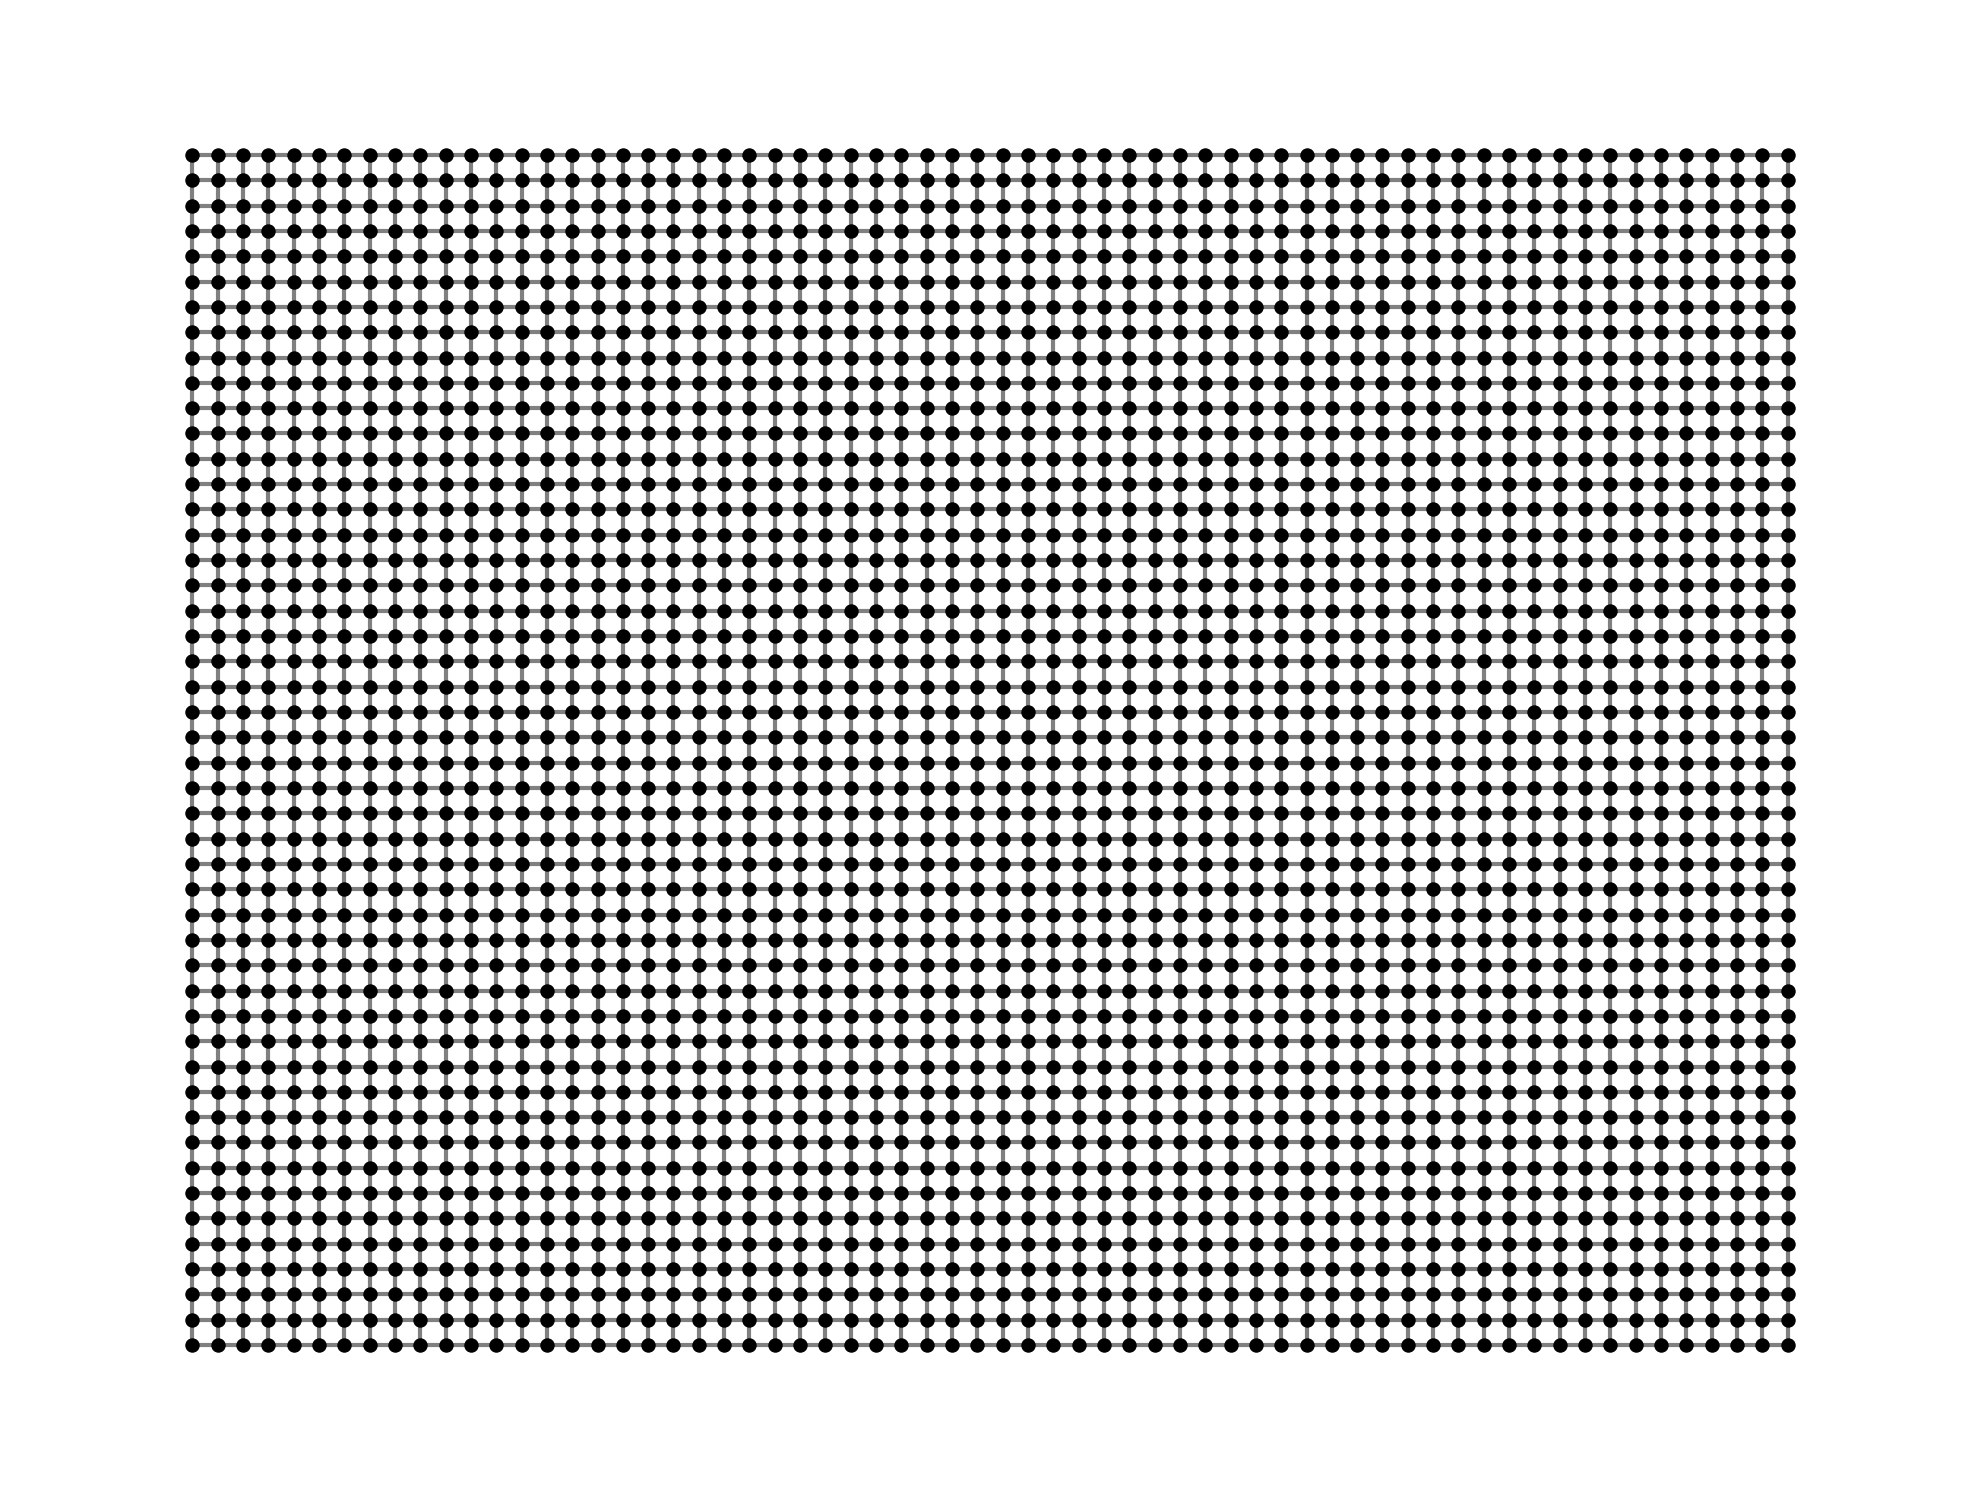
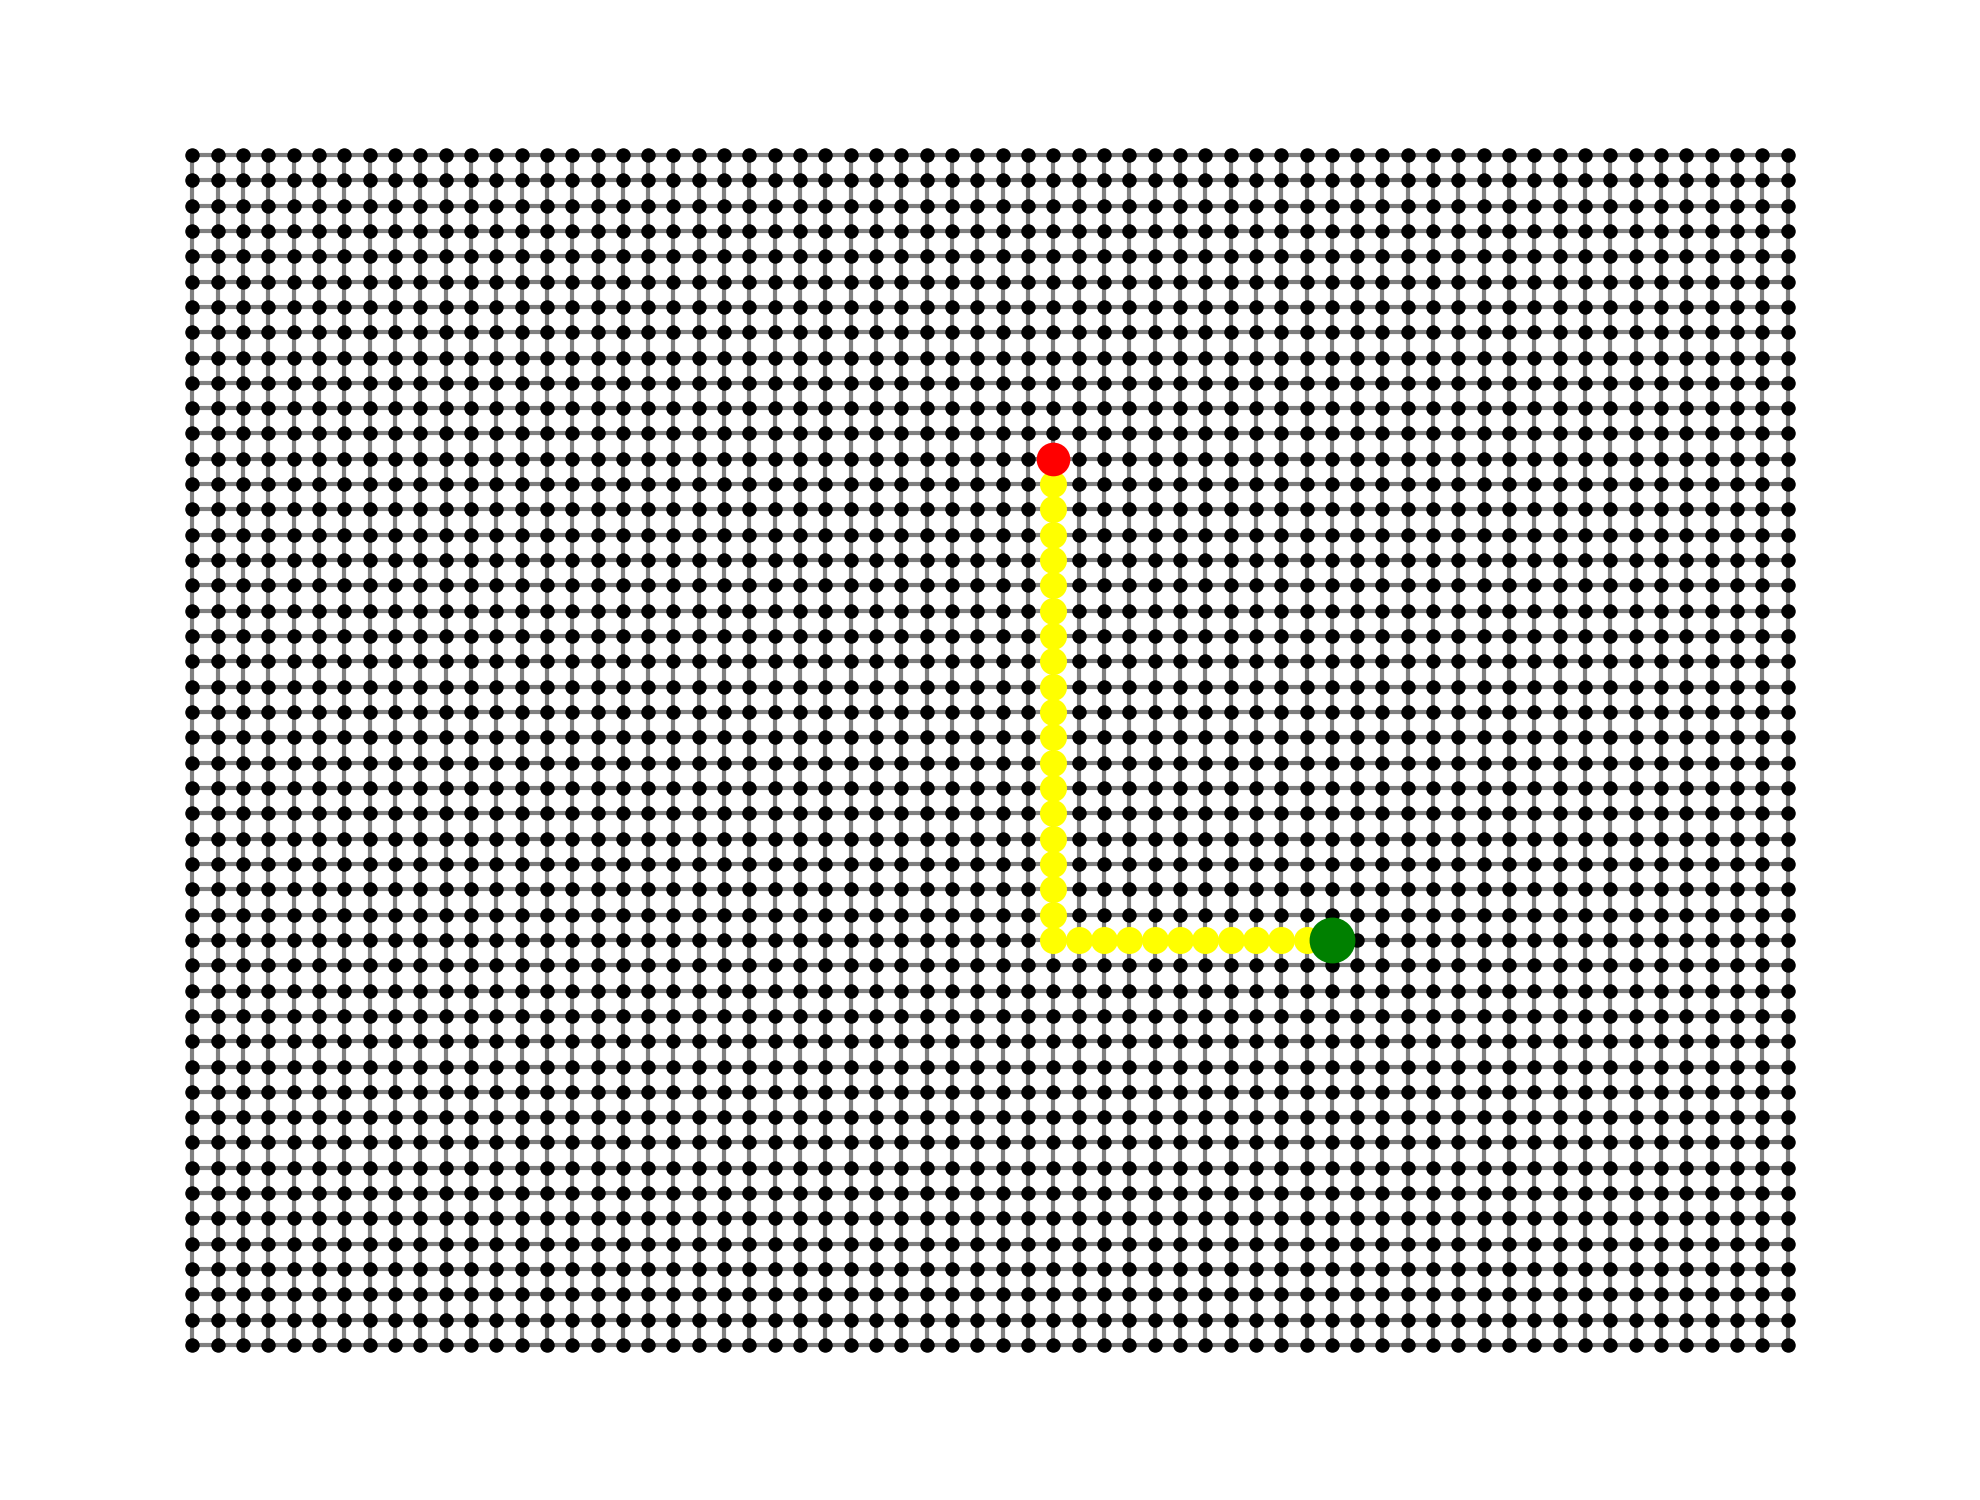
agrego astar con comentarios

Changed region(s): [[0.5237, 0.276, 0.7086, 0.644]]

diff --git a/ia.py b/ia.py
@@ -2,61 +2,106 @@ from heapq import heappush, heappop
 
 
 def manhattan(a, b):
+    """Calcula la distancia Manhattan entre dos puntos (a y b). 
+    Es la suma de las diferencias absolutas de sus coordenadas.
+    Sirve como heurística para estimar la distancia restante hasta el destino.
+    """
     return abs(a[0] - b[0]) + abs(a[1] - b[1])
 
-# f(n) = g(n) + h(n)
-# f(n): A* Score 
-# g(n): Costo para llegar a n  
-# h(n): Costo estimado para ir de n al destino
+
+# En el algoritmo A*, cada nodo tiene un costo total f(n):
+#   f(n) = g(n) + h(n)
+# donde:
+#   g(n): costo real para llegar al nodo n desde el inicio.
+#   h(n): costo estimado (heurístico) desde n hasta el destino.
+#   f(n): prioridad total usada para decidir qué nodo explorar primero.
 
 def astar(inicio, destino, grafo, board_width, board_height, obstaculos):
-    open_set = []   # cola de prioridad donde se guarda los nodos pendientes por explorar
-    # Siempre se saca el nodo con menor f_score o sea mejor candidato
+    """
+    Implementación del algoritmo A* para encontrar el camino más corto entre 'inicio' y 'destino' 
+    en un grafo o grilla. Usa la heurística de Manhattan.
 
-    heappush(open_set, (0, inicio))
-    came_from = {}  # diccionario que guarda de donde vino cada nodo para poder reconstruir el camino final
-    # lo que ya costó llegar hasta ahora (inicia guardando el costo acumulado 0)
-    g_score = {inicio: 0}
+    Parámetros:
+        inicio (tuple): coordenadas del nodo inicial.
+        destino (tuple): coordenadas del nodo final.
+        grafo (networkx.Graph): grafo que define la conectividad entre nodos.
+        board_width, board_height (int): tamaño de la grilla (solo relevante si se usa la versión de grilla).
+        obstaculos (set): conjunto de nodos bloqueados o no transitables.
 
-    while open_set:
-        _, current = heappop(open_set)  # se extrae el nodo con menor f_score
-        if current == destino:
-            path = []
-            while current in came_from:
-                path.append(current)
-                current = came_from[current]
-            path.append(inicio)
-            path.reverse()
-            return path
-        # Implementacion con Grafo
-        for vecino in grafo.neighbors(current):
+    Retorna:
+        list: lista ordenada de nodos que conforman el camino desde inicio a destino.
+              Retorna None si no se encuentra camino posible.
+    """
+
+    # Cola de prioridad (heap) que almacena nodos pendientes de explorar.
+    # Cada elemento es una tupla (f_score, nodo), y siempre se explora el nodo con menor f_score.
+    lista_abierta = []
+    heappush(lista_abierta, (0, inicio))
+
+    # Diccionario para reconstruir el camino una vez alcanzado el destino.
+    viene_de = {}
+
+    # Costo acumulado más bajo conocido hasta cada nodo.
+    # Comienza con el nodo inicial, cuyo costo de llegada (g) es 0.
+    g_costo = {inicio: 0}
+
+    while lista_abierta:
+        # Se extrae el nodo con menor f(n) de la cola de prioridad.
+        _, nodo_actual = heappop(lista_abierta)
+
+        # Si alcanzamos el destino, reconstruimos el camino recorriendo "viene_de".
+        if nodo_actual == destino:
+            ruta = []
+            while nodo_actual in viene_de:
+                ruta.append(nodo_actual)
+                nodo_actual = viene_de[nodo_actual]
+            ruta.append(inicio)
+            ruta.reverse()
+            return ruta
+
+        # --- EXPLORACIÓN DE VECINOS (versión con grafo) ---
+        # print(f"Nodo actual: {nodo_actual} Vecinos: {[n for n in grafo.neighbors(nodo_actual)]}")
+
+        for vecino in grafo.neighbors(nodo_actual):
+            # Si el vecino es un obstáculo (y no es el destino), se salta.
             if vecino in obstaculos and vecino != destino:
                 continue
 
-            tentative_g = g_score[current] + 1
-            if tentative_g < g_score.get(vecino, float('inf')):
-                came_from[vecino] = current
-                g_score[vecino] = tentative_g
-                f_score = tentative_g + manhattan(vecino, destino)
-                heappush(open_set, (f_score, vecino))
-        
-        # Implementacion con Grilla
-        # x, y = current
-        # neighbors = [(x+1, y), (x-1, y), (x, y+1), (x, y-1)]
-        
-        # for nx, ny in neighbors:
+            # Costo tentativo: costo acumulado para llegar hasta el vecino
+            # pasando por el nodo actual. Aquí se asume que moverse cuesta 1 unidad.
+            g_candidato = g_costo[nodo_actual] + 1
+
+            # Si el nuevo costo es mejor (más bajo) que el registrado previamente,
+            # actualizamos el costo y la relación "viene_de".
+            if g_candidato < g_costo.get(vecino, float('inf')):
+                viene_de[vecino] = nodo_actual
+                g_costo[vecino] = g_candidato
+
+                # f(n) = g(n) + h(n)
+                # Se calcula la prioridad combinando el costo real y la heurística.
+                f_costo = g_candidato + manhattan(vecino, destino)
+
+                # Se agrega el vecino a la lista abierta (cola de prioridad)
+                # para ser explorado más adelante.
+                heappush(lista_abierta, (f_costo, vecino))
+
+        # --- VERSIÓN ALTERNATIVA (si se trabaja con grilla en lugar de grafo) ---
+        # x, y = nodo_actual
+        # vecinos = [(x+1, y), (x-1, y), (x, y+1), (x, y-1)]
+        #
+        # for nx, ny in vecinos:
         #     if not (0 <= nx < board_width and 0 <= ny < board_height):
         #         continue
-            
+        #
         #     if (nx, ny) in obstaculos and (nx, ny) != destino:
         #         continue
+        #
+        #     g_candidato = g_costo[nodo_actual] + 1
+        #     if g_candidato < g_costo.get((nx, ny), float('inf')):
+        #         viene_de[(nx, ny)] = nodo_actual
+        #         g_costo[(nx, ny)] = g_candidato
+        #         f_costo = g_candidato + manhattan((nx, ny), destino)
+        #         heappush(lista_abierta, (f_costo, (nx, ny)))
 
-        #     tentative_g = g_score[current] + 1
-        #     if tentative_g < g_score.get((nx, ny), float('inf')):
-        #         came_from[(nx, ny)] = current
-        #         g_score[(nx, ny)] = tentative_g
-        #         f_score = tentative_g + manhattan((nx, ny), destino)
-        #         heappush(open_set, (f_score, (nx, ny)))
-
-    return None  # no se encontró camino
-
+    # Si la lista abierta se vacía sin haber alcanzado el destino, no hay camino posible.
+    return None

diff --git a/main.py b/main.py
@@ -1,5 +1,4 @@
 import pygame
-import ia
 import juego
 
 pygame.init()
@@ -33,14 +32,14 @@ def init():
 
     # snake = juego.Humano(
     #     tablero,
-    #     colorCabeza=SNAKE_COLOR, 
-    #     colorCuerpo=TAIL_COLOR, 
+    #     colorCabeza=SNAKE_COLOR,
+    #     colorCuerpo=TAIL_COLOR,
     #     x=xInicial, y=yInicial)
 
     snake = juego.IA(
         tablero, comida,
-        colorCabeza=SNAKE_COLOR, 
-        colorCuerpo=TAIL_COLOR, 
+        colorCabeza=SNAKE_COLOR,
+        colorCuerpo=TAIL_COLOR,
         x=xInicial, y=yInicial)
 
     comida.reaparecer(snake)
@@ -84,7 +83,7 @@ def init():
             if event.type == pygame.QUIT:
                 salir = True
                 continue
-        # tablero.pantalla.fill(BG_COLOR)  # Fill the display with a solid color
+
         pygame.draw.rect(tablero.pantalla, SNAKE_DEATH_COLOR,
                          (tablero.pantalla.get_width() / 2, tablero.pantalla.get_height() / 2, CELL_SIZE * 2, CELL_SIZE * 2))
 
@@ -96,4 +95,3 @@ def init():
 
 
 init()
-# initIA()

diff --git a/juego.py b/juego.py
@@ -99,7 +99,7 @@ class Tablero():
         plt.axis("equal")
 
         # Guardar como imagen
-        plt.gca().invert_yaxis() 
+        plt.gca().invert_yaxis()
         plt.savefig(nombre_archivo, dpi=300, bbox_inches="tight")
         plt.close()
 
@@ -171,7 +171,6 @@ class Personaje(ABC):
     def hayColision(self, objeto):
         for rect in self.cuerpo:
             if rect.colliderect(objeto.getRect()):
-                print(f"colision con {rect}")
                 return True
         return False
 
@@ -285,8 +284,7 @@ class Comida:
             self.x = random.randint(2, limite_derecho)
             self.y = random.randint(2, limite_inferior)
 
-        rect = pygame.Rect(self.x, self.y, self.size, self.size)
-        print(f"nueva comida en {rect}")
+        pygame.Rect(self.x, self.y, self.size, self.size)
 
     def dibujar(self):
         self.tablero.dibujar(self.getRect(), self.color)
